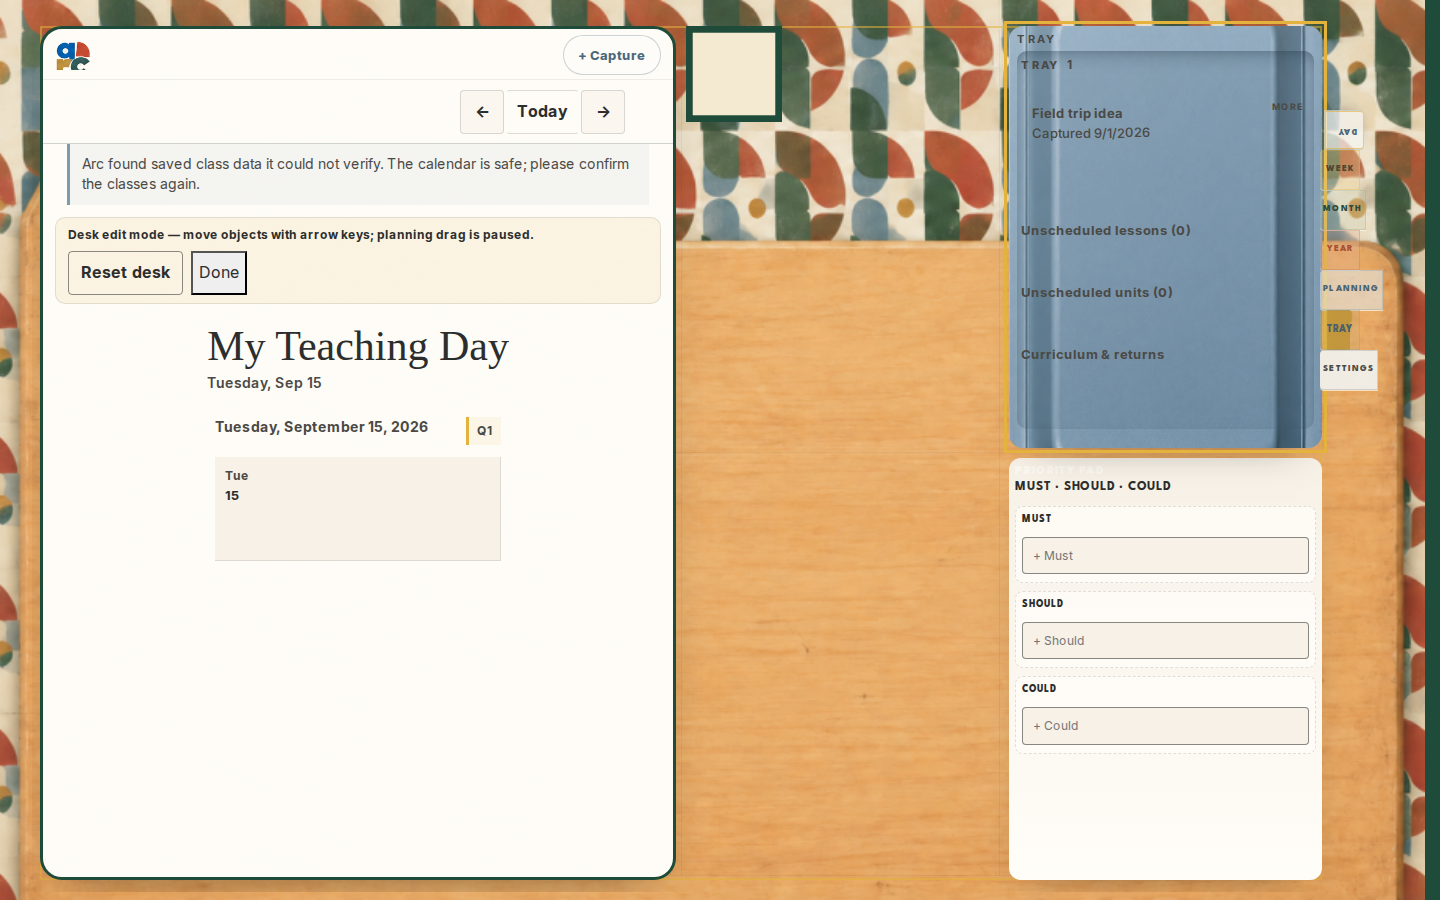
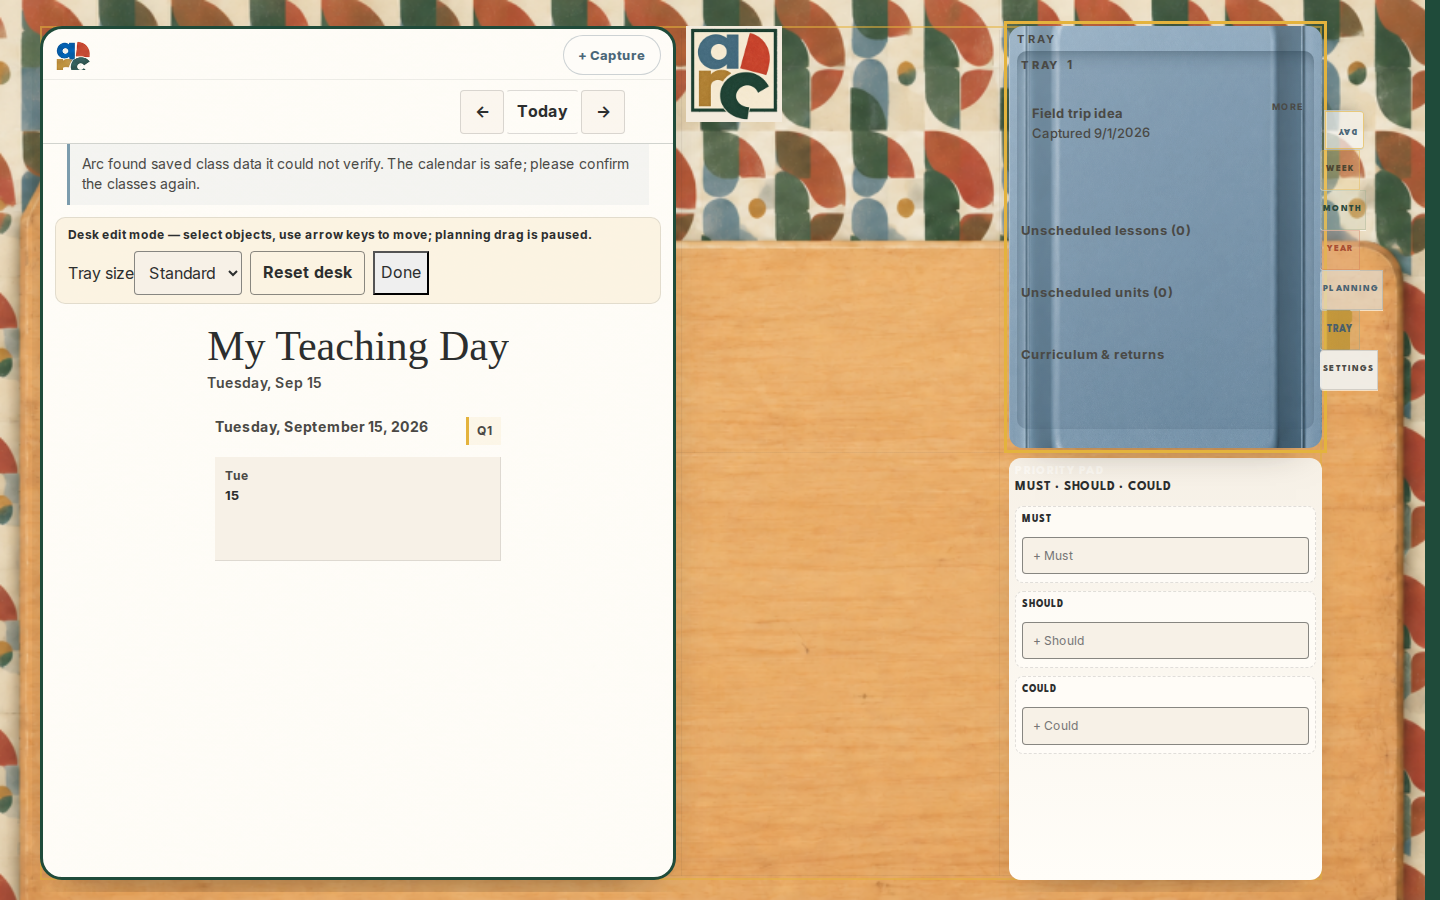
feat(desk): Edit Workspace arrangement mode, stack MVP, workspace layout persistence
- Settings → Edit Workspace opens real desk arrangement (sizes in edit toolbar)
- Persist workspace layout under arc.workspace-layout.v1 (migrates desk-layout key)
- Tray capture stacks: dwell create, fan/open, unstack, stack drag MIME
- dragTargets + stack.contract.ts; interaction law: stack ≠ unit
- Update ARC-DESK-PASS-REPORT (Pin it down primary; bulk stack→calendar YELLOW)
- test:edit-workspace smoke + updated arc-desk-pass smoke

Changed region(s): [[0.0312, 0.2489, 0.4062, 0.3111], [0.4688, 0.0311, 0.5625, 0.1556]]

diff --git a/src/components/DeskSetupSettings.tsx b/src/components/DeskSetupSettings.tsx
@@ -24,10 +24,10 @@ export function DeskSetupSettings({ preferences, onChange, onEditWorkspace }: Pr
     <section className="b01-settings-group desk-setup-settings" aria-labelledby="settings-desk-setup">
       <h2 id="settings-desk-setup">Desk setup</h2>
       <p className="desk-setup-overview">
-        Customize desk arranges planner, tray, Must/Should/Could, and ArcTable on your real desk — not a miniature preview.
+        Edit Workspace arranges planner, tray, Must/Should/Could, and ArcTable on your real desk — not a miniature preview.
       </p>
       <button type="button" className="b01-settings-action b01-settings-action--primary" onClick={onEditWorkspace}>
-        Customize desk
+        Edit Workspace
       </button>
       {layoutCustomized ? <p className="desk-setup-hint" role="status">Your desk layout is customized.</p> : null}
 
@@ -42,9 +42,38 @@ export function DeskSetupSettings({ preferences, onChange, onEditWorkspace }: Pr
       </label>
 
       <label className="view-preferences-check">
-        <input type="checkbox" checked={preferences.showWeekends} onChange={(event) => patchView({ showWeekends: event.target.checked })} />
+        <input
+          type="checkbox"
+          checked={preferences.showWeekends}
+          onChange={(event) => patchView({ showWeekends: event.target.checked })}
+        />
         <span>Show weekends in Week view</span>
       </label>
+
+      <fieldset className="desk-setup-presets">
+        <legend>Object sizes</legend>
+        <label>
+          <span>Planner</span>
+          <select value={preferences.desk.plannerSize} onChange={(event) => patchDesk({ plannerSize: event.target.value as DeskSurfacePreferences['plannerSize'] })}>
+            <option value="standard">Standard</option>
+            <option value="large">Large</option>
+          </select>
+        </label>
+        <label>
+          <span>Tray</span>
+          <select value={preferences.desk.traySize} onChange={(event) => patchDesk({ traySize: event.target.value as DeskSurfacePreferences['traySize'] })}>
+            <option value="standard">Standard</option>
+            <option value="wide">Wide</option>
+          </select>
+        </label>
+        <label>
+          <span>Must / Should / Could</span>
+          <select value={preferences.desk.mscSize} onChange={(event) => patchDesk({ mscSize: event.target.value as DeskSurfacePreferences['mscSize'] })}>
+            <option value="compact">Compact</option>
+            <option value="standard">Standard</option>
+          </select>
+        </label>
+      </fieldset>
 
       <fieldset className="desk-setup-visibility">
         <legend>Show on desk</legend>

diff --git a/src/components/DeskEditToolbar.tsx b/src/components/DeskEditToolbar.tsx
@@ -4,12 +4,12 @@ type Props = {
   selectedObject: DeskObjectKind
   sizes: { planner: PlannerSizePreset; tray: TraySizePreset; msc: MscSizePreset }
   onSizeChange: (patch: Partial<{ planner: PlannerSizePreset; tray: TraySizePreset; msc: MscSizePreset }>) => void
-  onDone: () => void
+  onPinDown: () => void
   onReset: () => void
   resetNeedsConfirm: boolean
 }
 
-export function DeskEditToolbar({ selectedObject, sizes, onSizeChange, onDone, onReset, resetNeedsConfirm }: Props) {
+export function DeskEditToolbar({ selectedObject, sizes, onSizeChange, onPinDown, onReset, resetNeedsConfirm }: Props) {
   const sizeField =
     selectedObject === 'planner' ? (
       <label className="desk-edit-size-control">
@@ -38,17 +38,17 @@ export function DeskEditToolbar({ selectedObject, sizes, onSizeChange, onDone, o
     ) : null
 
   return (
-    <div className="desk-edit-toolbar" role="region" aria-label="Desk edit mode" data-testid="desk-edit-toolbar">
+    <div className="desk-edit-toolbar" role="region" aria-label="Edit Workspace" data-testid="desk-edit-toolbar">
       <p className="desk-edit-toolbar-label">
-        Desk edit mode — select objects, use arrow keys to move; planning drag is paused.
+        Edit Workspace — select furniture, use arrow keys to move; planning drag is paused.
       </p>
       <div className="desk-edit-toolbar-actions">
         {sizeField}
         <button type="button" className="quiet-button" onClick={onReset}>
-          {resetNeedsConfirm ? 'Confirm reset desk' : 'Reset desk'}
+          {resetNeedsConfirm ? 'Confirm reset layout' : 'Reset layout'}
         </button>
-        <button type="button" className="b01-settings-action b01-settings-action--primary" onClick={onDone}>
-          Done
+        <button type="button" className="b01-settings-action b01-settings-action--primary" onClick={onPinDown}>
+          Pin it down
         </button>
       </div>
     </div>

diff --git a/src/components/ArcTableDeskMarkSvg.tsx b/src/components/ArcTableDeskMarkSvg.tsx
@@ -3,9 +3,8 @@ import {
   ARC_TABLE_DESK_QUADRANT_HIT_PATHS,
   ARC_TABLE_DESK_CENTER_HIT_PATH,
   ARC_TABLE_DESK_QUADRANT_ORDER,
-  ARC_TABLE_MARK_ASSET_SVG,
+  ARC_TABLE_MARK_ASSET,
   ARC_TABLE_MARK_VIEWBOX,
-  type ArcTableDeskQuadrant,
 } from '../planning/arcTableDeskMark'
 import { deskTargetToAction, resolveDeskActionLabel, type ArcTableDeskTarget } from '../planning/arcTableDeskActions'
 
@@ -30,7 +29,7 @@ export function ArcTableDeskMarkSvg({ size, interactive, liveActive, hovered, on
       aria-label={interactive ? 'ArcTable desk mark' : 'ArcTable mark'}
     >
       <image
-        href={ARC_TABLE_MARK_ASSET_SVG}
+        href={ARC_TABLE_MARK_ASSET}
         width={ARC_TABLE_MARK_VIEWBOX}
         height={ARC_TABLE_MARK_VIEWBOX}
         pointerEvents="none"

diff --git a/src/components/AppFrame.tsx b/src/components/AppFrame.tsx
@@ -621,7 +621,11 @@ export function AppFrame() {
                   tray: activeDeskPreferences.desk.traySize,
                   msc: activeDeskPreferences.desk.mscSize,
                 }}
-                onSizeChange={patchEditWorkspaceSizes}
+                onSizeChange={(patch) => patchEditWorkspaceSizes({
+                  ...(patch.planner ? { plannerSize: patch.planner } : {}),
+                  ...(patch.tray ? { traySize: patch.tray } : {}),
+                  ...(patch.msc ? { mscSize: patch.msc } : {}),
+                })}
                 onPinDown={() => completeDeskEdit(true)}
                 onReset={resetDeskLayoutDraft}
                 resetNeedsConfirm={deskResetArmed}

diff --git a/docs/overnight/ARC-DESK-PASS-REPORT.md b/docs/overnight/ARC-DESK-PASS-REPORT.md
@@ -8,7 +8,7 @@ Baseline: workspace layout migration + desk integration fixes (`698e130`)
 | ID | Item | Status |
 |----|------|--------|
 | A | Arc IS the Desk — single viewport, internal scroll only | **GREEN** — `.arc-shell--desk` locks page overflow; planner canvas scrolls internally |
-| B | Material hierarchy (pattern → wood → cream/blue/paper) | **GREEN** — wood slab + pattern shell + molded tray asset |
+| B | Material hierarchy (pattern → wood → cream/blue/paper) | **GREEN** — full-viewport wood on `.arc-shell--desk`; pattern reserved for onboarding/non-desk shell |
 | C | Planner object (Day/Week/Month/Year index) | **GREEN** — existing index tabs retained |
 | D | Preferred desk planner view persisted | **GREEN** — `arc.desk-preferences.v1` + Settings → Home desk |
 | E | Year view IA (mini months, remain, caught-up, quarters) | **GREEN** — `SchoolYearDeskView` + open course progression |
@@ -45,7 +45,8 @@ Baseline: workspace layout migration + desk integration fixes (`698e130`)
 
 ## Visual addendum compliance
 
-- Light wood desk: `public/assets/desk/light-wood-desk.png` on `.arc-desk-wood-frame`
+- Light wood desk: `public/assets/desk/light-wood-desk.png` edge-to-edge on `.arc-shell--desk` (not a nested frame)
+- ArcTable mark: `logo-icon-framed-arc-primary-512.png` raster in desk fixture (vector hit targets only)
 - Blue molded tray: rim/well uses `blue-molded-tray.png` + inset shadows
 - Mustard tab: texture on `.arc-index-tab--workspace`
 - Year authority: mini-month grid, countdown, caught-up X, quarter legend
